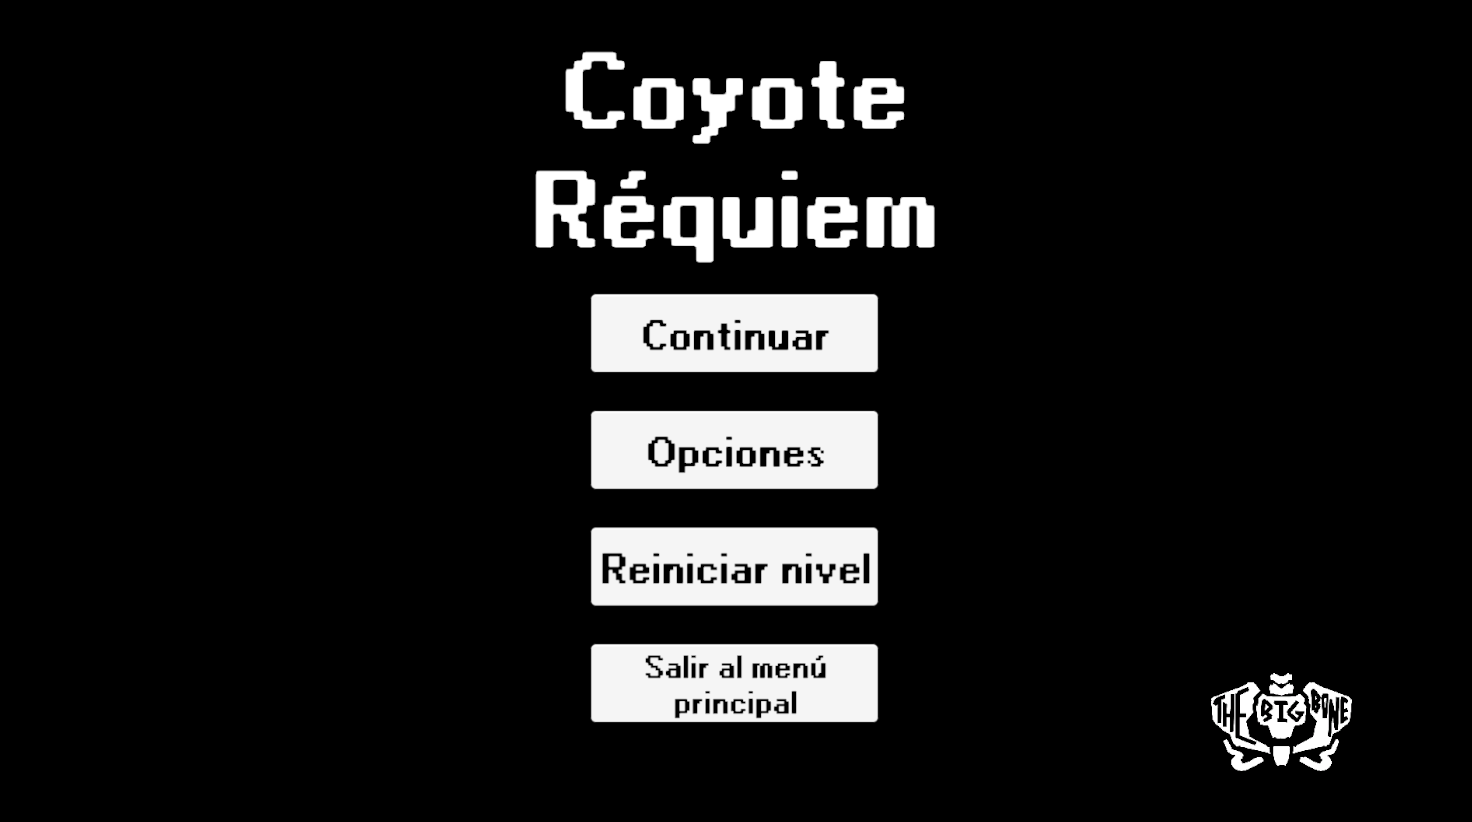
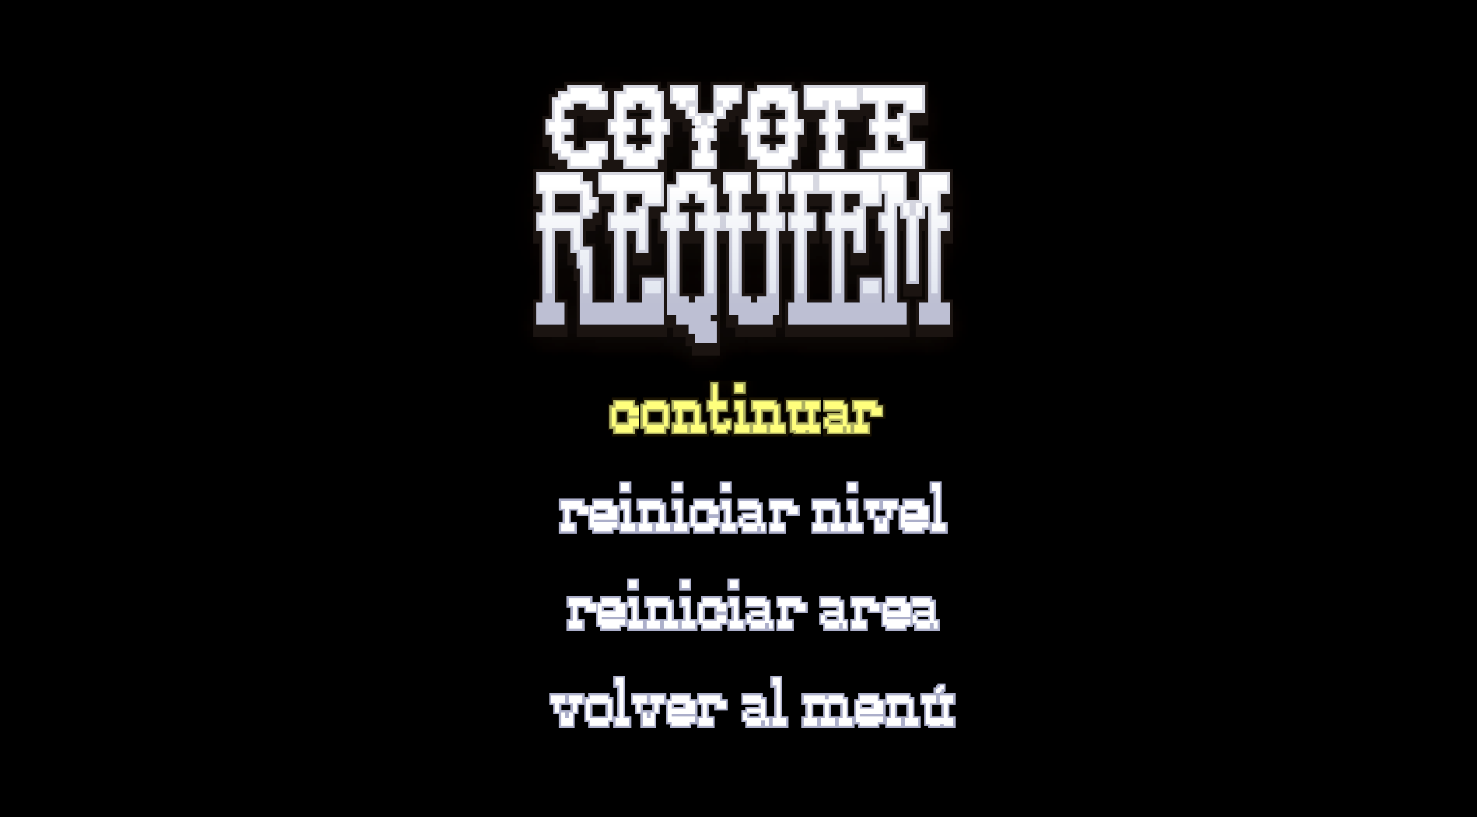
README terminado

Changed region(s): [[0.3438, 0.0612, 0.6562, 0.918], [0.8125, 0.8262, 0.9375, 0.9486]]

diff --git a/README.md b/README.md
@@ -408,15 +408,18 @@ Denébola es una habitante de Pricklytown, y es el primer encuentro que tiene Co
 El carretero es un perro mayor que es considerado el sabio del pueblo. Ayuda a Coyote a llegar al cañón no sin antes advertirle del peligro que le acecha.
 
 <img src="./Imagenes_README/perroconcept.jpg" alt="Prota3" style="width: 100%"/>
+<img src="./Imagenes_README/Perso/CapPerro.png" alt="Prota3" style="width: 100%"/>
 
 #### Lider secta
 Se trata de uno de los expedicionistas supervivientes que acabó sumiendo el liderazgo del nuevo culto a los cactus. Se trata de un ciervo humanoide infectado que intenta de forma “pacífica” atraer a la gente al oasis.
 
 <img src="./Imagenes_README/DeerConcept.png" alt="Prota3" style="width: 100%"/>
+<img src="./Imagenes_README/Perso/CapLider.png" alt="Prota3" style="width: 100%"/>
 
 #### Carlos
 Antiguo ayudante de un noble sheriff, acabó convirtiéndose en un cactus tras comerse un higo durante una guardia porque le entró hambre. Ahora habita en el cañón, huyendo de los sectarios y teniendo recuerdos difuminados de su vida antes de convertirse. 
 
+<img src="./Imagenes_README/Perso/CapCarlos.png" alt="Prota3" style="width: 100%"/>
 
 ## 4.3. Escenarios
 
@@ -424,25 +427,31 @@ Como se ha mencionado anteriormente, Coyote Requiem cuenta con tres zonas princi
 
 ### Pueblo
 
+<img src="./Imagenes_README/CapturaNivel1.png" alt="Nivel1" style="width: 100%"/>
+
 <img src="./Imagenes_README/Nivel1Con elementos del nivel.png" alt="Nivel1" style="width: 100%"/>
 
 Este es el mapa del primer nivel del juego que se desarrolla en el pueblo de Pricklytown. El nivel esta dividido en 5 subáreas de combate donde también podrá encontrarse con distintos Npcs que le pondrá en contexto sobre que son esos seres con forma de cactus.
 ### Cañón
+
+<img src="./Imagenes_README/CapturaNivel2.png" alt="Nivel1" style="width: 100%"/>
 
 <img src="./Imagenes_README/Nivel2Con elementos del nivel.png" alt="Nivel2" style="width: 100%"/>
 
 El segundo nivel se sitúa en un oásis. En el mapa se puede observar que es un nivel alargado y dividido en 4 subáreas de combate.
 ### Oasis
 
+<img src="./Imagenes_README/CapturaNivel3.png" alt="Nivel1" style="width: 100%"/>
+
 <img src="./Imagenes_README/Nivel3 Con elementos del nivel.png" alt="Nivel3" style="width: 100%"/>
 
 El último nivel se desarrolla en el oasis donde se encuentra tanto el huevo cosmico como la iglesia de la secta. Este nivel es más corto de los demás dividiendolo en 3 áreas de combate. Las 2 primeras son áreas que se dividen en 2 oleadas y la última zona es donde se desarrolla la batalla contra el jefe final.
 
 ## 4.4. Arte 2D - Interfaces
-Diseño inicial de interfaces - vida e indicador de direcciones de ataque o bloqueo.
-
-<img src="./Imagenes_README/Interfaz_vida.jpeg" alt="zombi3" style="width: 50%"/>
-<img src="./Imagenes_README/Interfaz_ataque.jpeg" alt="zombi3" style="width: 41%"/>
+Diseño final de interfaces - vida, indicador de direcciones de ataque o bloqueo y defensa enemigo.
+<img src="./Imagenes_README/CapVida.png" alt="zombi3" style="width: 30%"/>
+<img src="./Imagenes_README/CapInPer.png" alt="zombi3" style="width: 50%"/>
+<img src="./Imagenes_README/CapInEne.png" alt="zombi3" style="width: 41%"/>
 
 
 # 5. Sonido y música 
@@ -596,9 +605,6 @@ Aparece una flauta de pan y una armónica que se responden mutuamente con la mis
 ### Menú inicio
 <img src="./Imagenes_README/DiagramaflujoMenuPrincipal.drawio.png" alt="BocetoMenuPincipal" style="width: 100%"/>
 
-### Menú opciones
-<img width="611" height="301" alt="DiagramaflujoMenuOpciones drawio" src="https://github.com/user-attachments/assets/f8e94939-37c0-43d9-bf1f-1a1998928cb2" />
-
 ### In game
 
 <img src="./Imagenes_README/DiagramaflujoInGame.drawio.png" alt="BocetoMenuPincipal" style="width: 100%"/>
@@ -610,8 +616,6 @@ __Menú inicio:__ El menú de inicio es lo primero que se encuentra el jugador c
 * __Nueva partida:__ El jugador comienza el juego desde 0.
 
 * __Continuar:__ El jugador continua la partida desde el punto donde lo había dejado en caso de tener una partida guardada, si no la tiene no pasará nada.
-
- * __Opciones:__ El jugador accederá al menú de opciones donde podrá ajustar los niveles de audio general, música y efectos sonoros.
  * __Selección de capítulo:__ Permite al jugador seleccionar el nivel que quiera para jugar.
 
  * __Créditos:__  El jugador accede a la pantalla de créditos donde aparecerá los miembros que conforman el equipo y su trabajo realizado.
@@ -630,8 +634,6 @@ __In game:__ Para acceder al menú de pausa es tendrá que pulsar la tecla "esc"
        
     3. __Continuar:__ vuelve al nivel en el momento que lo pausó.
 
-    4. __Opciones:__ te lleva al menú de opciones.
-
     5. __Reiniciar Área:__ Reinicia antes del área del último combate jugado.
 
 
@@ -645,9 +647,10 @@ __In game:__ Para acceder al menú de pausa es tendrá que pulsar la tecla "esc"
 
  ## 6.2. Diseño de interfaces
  ### Interfaces combate
+  <img src="./Imagenes_README/CapturasMenus/InterfazCombate.png" alt="InterfazCombate" style="width: 100%"/>
+
  ### Menú principal
- ### Menú opciones
- <img src="./Imagenes_README/CapturasMenus/MenuOpciones.png" alt="BocetoMenuPincipal" style="width: 100%"/>
+ <img src="./Imagenes_README/CapturasMenus/MenuInicio.png" alt="BocetoMenuPincipal" style="width: 100%"/>
 
  ### Menú pausa
 <img src="./Imagenes_README/CapturasMenus/MenuPausa.png" alt="BocetoMenuPincipal" style="width: 100%"/>
@@ -656,6 +659,8 @@ __In game:__ Para acceder al menú de pausa es tendrá que pulsar la tecla "esc"
  <img src="./Imagenes_README/CapturasMenus/PantallaCreditos.png" alt="BocetoMenuPincipal" style="width: 100%"/>
 
  ### Pantalla DLCs
+  <img src="./Imagenes_README/CapturasMenus/ContenidoDescargable.png" alt="BocetoMenuPincipal" style="width: 100%"/>
+
  ### Pantalla muerte
  <img src="./Imagenes_README/CapturasMenus/PantallaMuerte.png" alt="BocetoMenuPincipal" style="width: 100%"/>
 
@@ -701,6 +706,11 @@ Durante estas versiones cada semana se pondrán metas a alcanzar para el final d
 # 8. Marketing y Redes Sociales
 
 Para publicitar el juego se han creado distintas redes sociales como Instagram, Youtube, X, ... El uso de estas redes sociales serán para presentar los distintos integrantes del equipo y los pequeños avances que se hagan conforme avanza el tiempo.
+
+La estrategia a seguir ha sido la siguiente:
+ 1. Se ha preparado un teaser del juego y publicaciones de presentación de cada uno de los integrantes de forma individual.
+ 2. Días antes de la entrega se preparará un trailer final del juego.
+ 3. Se irás subiendo videos al estilo "shorts" días antes, durante y después del lanzamiento del juego para mantener el interes del mismo tanto para gente nueva como para los que ya lo han jugado.
 
 El público objetivo de este proyecto son personas adolescentes mayores de 16 años con interés y algo de experiencia en videojuegos de combate frenético en tercera persona, que sientan atracción por los mundos de fantasía, el viejo oeste o por la estética lovecraftiana, por lo que habrá que enfocar el marketing hacia dicho público.
 
@@ -907,45 +917,61 @@ Además he trabajado con Antonio y Edu en las redes sociales.
 
 ### Antonio Bernal de Celis
 #### Lecciones aprendidas
+La importancia de la organización y comunicación a la hora de hacer un proyecto de esta magnitud. Es muy importante planificar las cosas con antelación y ser realistas con el scope. He aprendido como funcionan sonidos, música y trabajar sobre animaciones.
+
 #### Trabajo individual realizado
+Sistema de movimiento 3D del personaje, con parámetros como gravedad, deslizamiento, velocidad, dash, sprint...
+Su tratamiento con sistemas de rampas y estados en el aire.
+
+Composición de la música del juego en su totalidad y su implementación como música dinámica: colocar las canciones en pistas de audio simultáneas (una canción ambiental y otra de pelea, idénticas en base y estructura, añadiendo más instrumentos) que transicionan según estados de combate y no-combate.
+La banda sonora se compone de Menú, Nivel 1 (Base y Pelea), Nivel 2 (Base y Pelea), Nivel 3 (Base y Pelea), Boss Final, Créditos y canciones para cinématicas como la Intro y Cinemática de transición entre niveles.
+También existen diferentes leitmotifs que representan a los personajes del juego (Enemigos, Coyote, Lince...).
+
+Implementación de SFX: algunos creados de "motu propio", y otros obtenidos mediante bibliotecas de sonido o YouTube, para posteriormente aplicar efectos de post-producción y adaptarlos a la estética del juego.
+
+Sistema de inputs para teclado y ratón, mando o móvil, con diferentes bindings para cada dispostivo.
+
 #### Trabajo colectivo realizado
+He trabajado en conjunto con Andrea, para el tema de inputs de gancho, cámara, etc. Y especialmente con Diego, trabajando simultáneamente en los conceptos de la IA de los enemigos. Con David también he trabajado para representar en los leitmotifs parte de la historia del juego.
 
 ### David del Castillo Enríquez
 #### Lecciones aprendidas
-En el transcurso de esta etapa, he reforzado lo aprendido en la Beta, la importancia de la comunicación con los miembros del equipo. Nos ha venido muy bien hacer reuniones físicas para trabajar en conjunto.
+  En el transcurso de esta etapa, he reforzado lo aprendido en la Beta, la importancia de la comunicación con los miembros del equipo. Nos ha venido muy bien hacer reuniones físicas para trabajar en conjunto.
 
 #### Trabajo individual realizado
-Durante esta última etapa del trabajo he rediseñado los niveles 2 y 3, montado el jefe, reajustando y balanceando a los enemigos, encontrando errores y haciendo las animaticas de las cinemáticas. En general, comprobar que el juego funcione correctamente.
+  Durante esta última etapa del trabajo he rediseñado los niveles 2 y 3, montado el jefe, reajustando y balanceando a los enemigos, encontrando errores y haciendo las animaticas de las cinemáticas. En general, comprobar que el juego funcione correctamente.
 
 #### Trabajo colectivo realizado
-Mi trabajo colectivo ha sido principalmente con el equipo de programación, en especial con Diego, comunicando los errores que iban surgiendo a lo largo de esta etapa. En cuanto al equipo de arte mi comunicación principal ha sido con Eduardo debido a que él se ha encargado de hacer las cinemáticas con los modelos en base a mis animaticas.
+  Mi trabajo colectivo ha sido principalmente con el equipo de programación, en especial con Diego, comunicando los errores que iban surgiendo a lo largo de esta etapa. En cuanto al equipo de arte mi comunicación principal ha sido con Eduardo debido a que él se ha encargado de hacer las cinemáticas con los modelos en base a mis animaticas.
 
 ### Diego Fernández Manso
 #### Lecciones aprendidas
+  Como programador principal de un proyecto tan grande, he tenido que pulir mucho mis habilidades de ingeniería de videojuegos y diseño de scripts. Ha sido un enorme reto desde el inicio, teniendo que estructurar cuidadosamente el código desde antes incluso de empezar a programar, hasta el final, donde la magnitud del proyecto a puesto ha prueba la escalabilidad del código. Además, ha sido la primera vez que trabajo una IA de personajes similar, asi que he aprendido mucho en ese aspecto.
+
 #### Trabajo individual realizado
+  He sido el programador principal del proyecto, encargado principalmente de construir los sistemas y del comportamiento de los personajes. 
+
 #### Trabajo colectivo realizado
+  Como jefe de programación y creador de los sistemas troncales del código, mi trabajo articula el del resto de mis compañeros en la programación, ya que mucho de su trabajo ha dependido del mío (y viceversa). Además, he trabajado con David, quien me ha transmitido las necesidades de diseño para poderlas programar. Además, era el encargado de comunicar assets que necesita el proyecto al equipo de arte.
 
 ### Candela Jiménez González
 #### Lecciones aprendidas
-En la fase final de desarrollo del proyecto he continuado ampliando mis conocimientos de Unity y Blender, relacionados en específico con la animación, texturizado, iluminación y shaders. 
+  En la fase final de desarrollo del proyecto he continuado ampliando mis conocimientos de Unity y Blender, relacionados en específico con la animación, texturizado, iluminación y shaders. 
 
 #### Trabajo individual realizado
-En este tramo del proyecto he modelado, animado y texturizado más enemigos y personajes no jugables de Coyote Requiem, así como props adicionales y decoración. Por otra parte, he continuado con el desarrollo de la página web y he participado en el montaje, sobre todo a nivel de decoración e iluminación de los niveles del juego.
+  En este tramo del proyecto he modelado, animado y texturizado más enemigos y personajes no jugables de Coyote Requiem, así como props adicionales y decoración. Por otra parte, he continuado con el desarrollo de la página web y he participado en el montaje, sobre todo a nivel de decoración e iluminación de los niveles del juego.
 
 #### Trabajo colectivo realizado
-A nivel colectivo he continuado mi trabajo con Edu, recibiendo y aportando realimentación sobre diseño, colores u otros aspectos artísticos de modelado, texturizado y animación. Junto con el resto del equipo he trabajado en la decoración e iluminación de niveles y cinemáticas, así como en el desarrollo de este documento.
+  A nivel colectivo he continuado mi trabajo con Edu, recibiendo y aportando realimentación sobre diseño, colores u otros aspectos artísticos de modelado, texturizado y animación. Junto con el resto del equipo he trabajado en la decoración e iluminación de niveles y cinemáticas, así como en el desarrollo de este documento.
 
 ### Andrea Luengo Zazo
 #### Lecciones aprendidas
-<<<<<<< Updated upstream
-Se ha comprendido la importancia de dejar claro como funcionan los sistemas desarrollados por uno mismo para que los demás miembros del equipo puedan utilizarlos sin mucho problema. También darle valor a entender qué es exactamente lo que se espera de un sistema para poder implementarlo con mayor precisión. Por otro lado, se ha aprendido a desarrollar sistemas sólidos para que no haya problemas futuros y a testear y arreglar bugs inesperados. 
-=======
 
->>>>>>> Stashed changes
+  Se ha comprendido la importancia de dejar claro como funcionan los sistemas desarrollados por uno mismo para que los demás miembros del equipo puedan utilizarlos sin mucho problema. También darle valor a entender qué es exactamente lo que se espera de un sistema para poder implementarlo con mayor precisión. Por otro lado, se ha aprendido a desarrollar sistemas sólidos para que no haya problemas futuros y a testear y arreglar bugs inesperados. 
 
 #### Trabajo individual realizado
-Se ha adaptado el sistema de lock y cámaras al nuevo sistema de combate. Además, se han ido corrigiendo bugs los bugs que iban surgiendo relacionados con los sistemas de lockeo, gancho, diálogos y cámaras.
-Se han añadido colliders cámaras y ajustado sus ángulos para que el jugador pueda ver el escenario de forma cómoda y dinámica. También se han corregido y hecho persistentes los menús y configuración de sonido.
+  Se ha adaptado el sistema de lock y cámaras al nuevo sistema de combate. Además, se han ido corrigiendo bugs los bugs que iban surgiendo relacionados con los sistemas de lockeo, gancho, diálogos y cámaras.
+  Se han añadido colliders cámaras y ajustado sus ángulos para que el jugador pueda ver el escenario de forma cómoda y dinámica. 
 
 #### Trabajo colectivo realizado
-Se han estado detectando y corrigiendo bugs con los miembros del equipo. También se ha estado en contacto con David, el game designer, para implementar los sistemas de cámaras, lock y gancho conforme a las necesidades que han ido surgiendo del juego. Por otro lado también se ha mantenido el contacto con el resto de miembros del equipo de programación para el desarrollo de las partes colindantes con ellos y se ha consultado a Diego las dudas que surgían a la hora de programar. Finalmente se ha implementado una configuración de sonido persistente junto con Antonio.
+  Se han estado detectando y corrigiendo bugs con los miembros del equipo. También se ha estado en contacto con David, el game designer, para implementar los sistemas de cámaras, lock y gancho conforme a las necesidades que han ido surgiendo del juego. Por otro lado también se ha mantenido el contacto con el resto de miembros del equipo de programación para el desarrollo de las partes colindantes con ellos y se ha consultado a Diego las dudas que surgían a la hora de programar. 
